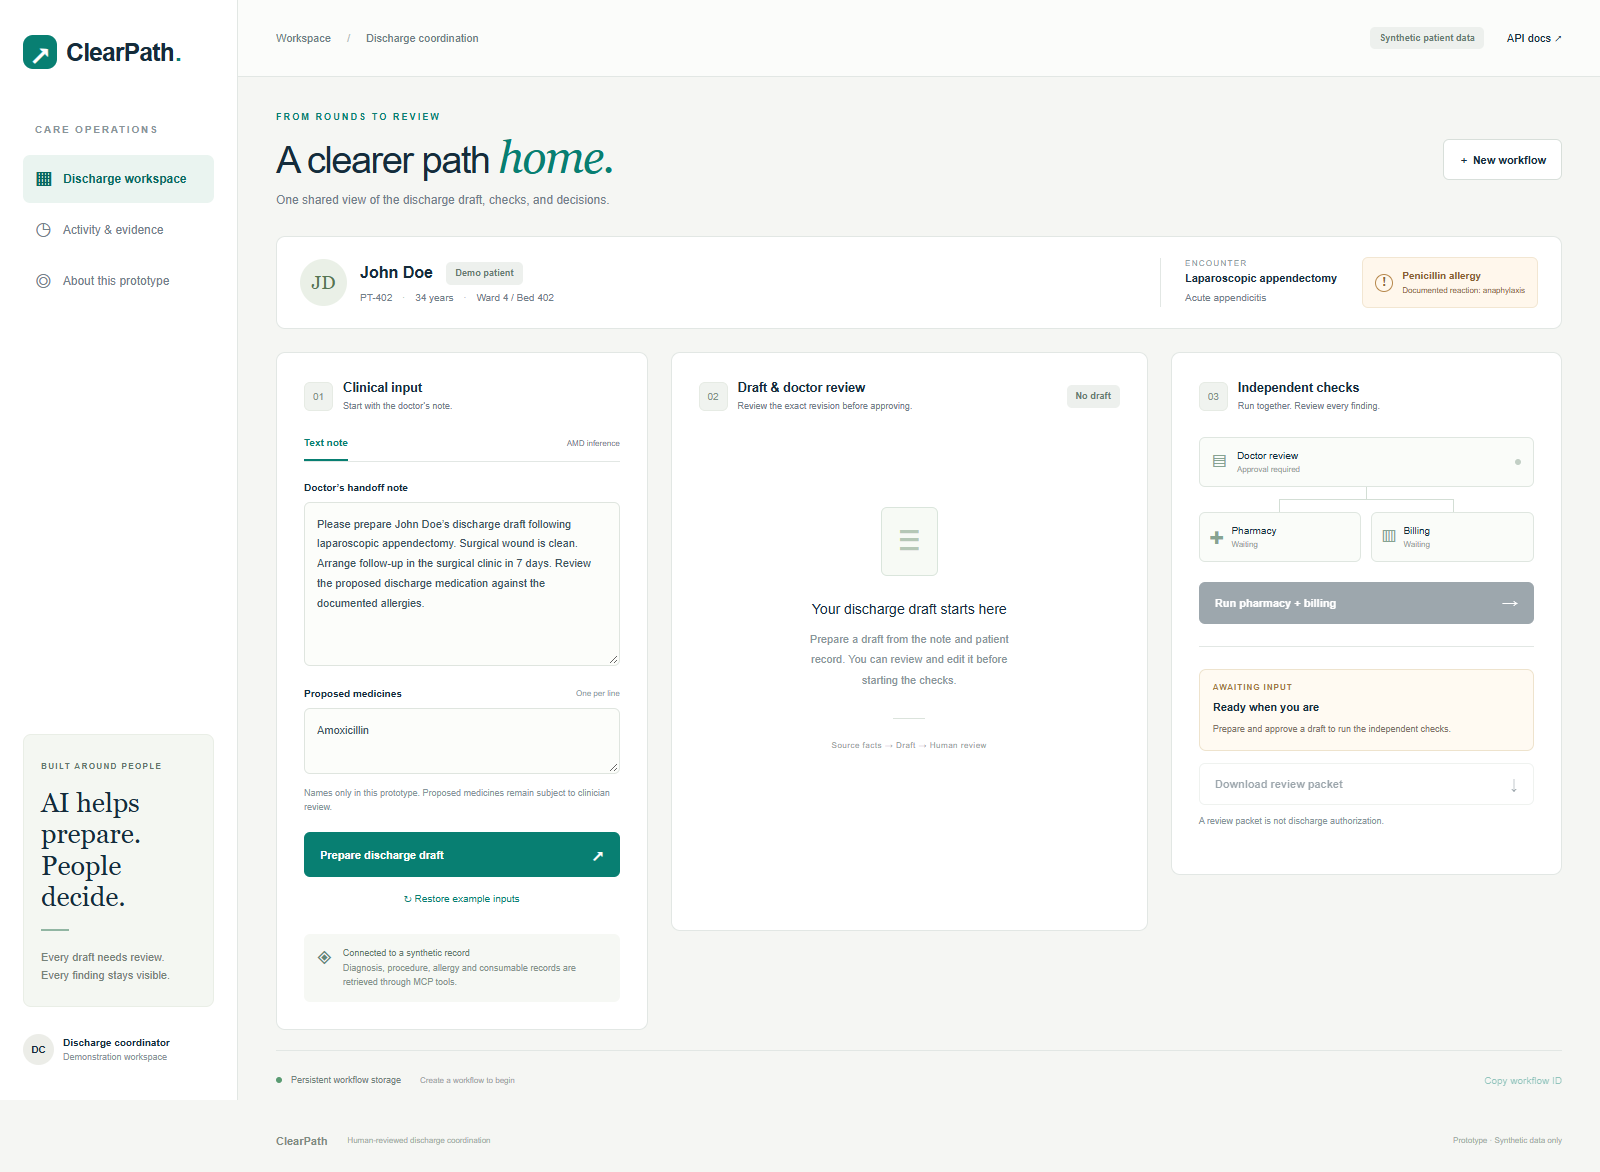
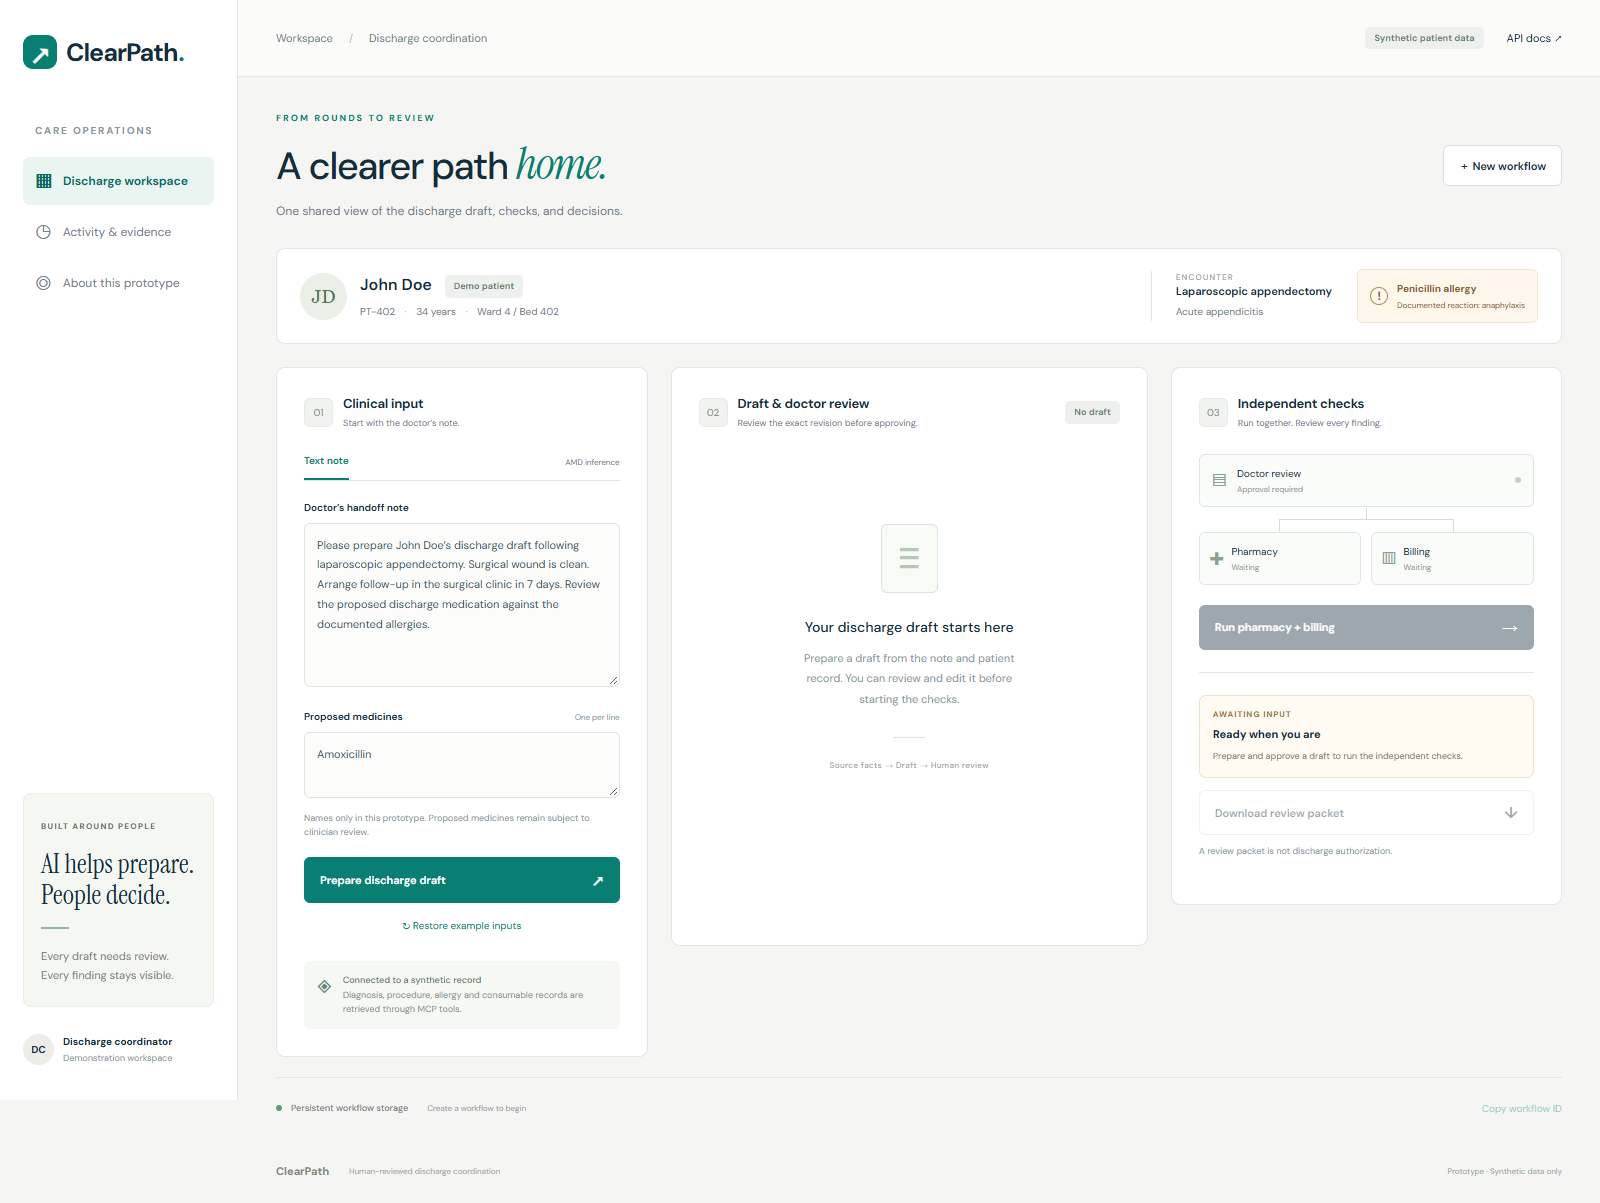
Document verified live deployment and final submission links

diff --git a/submission/SUBMISSION.md b/submission/SUBMISSION.md
@@ -1,5 +1,22 @@
 # ClearPath — Discharge Coordination
 
+## Final submission links
+
+| Form field | Value |
+| --- | --- |
+| Working prototype / live app | https://clearpath-discharge.onrender.com |
+| Application platform | Render |
+| Public source repository | https://github.com/Promizir/clearpath-discharge |
+| Demo video | https://github.com/Promizir/clearpath-discharge/releases/download/v0.1.0/ClearPath-demo-AMD.mp4 |
+| Pitch PDF | https://github.com/Promizir/clearpath-discharge/releases/download/v0.1.0/ClearPath-pitch.pdf |
+| Cover PNG | https://github.com/Promizir/clearpath-discharge/releases/download/v0.1.0/cover.png |
+| All downloadable assets | https://github.com/Promizir/clearpath-discharge/releases/tag/v0.1.0 |
+
+The hosted app passed the AMD-backed browser workflow and mobile checks.
+The video link downloads the MP4. If the submission form requires a particular
+video provider or a file upload, upload that MP4 there and use its resulting URL.
+Final form submission is still the submitter's action; no confirmation has been received.
+
 Copy-ready submission content for AMD Developer Hackathon: ACT III. The linked platform guide specifies a title up to 50 characters, summary up to 255 characters, and long description of at least 100 words. The content below fits those limits. [Official submission guide](https://lablab.ai/ai-articles/hackathon-guidelines)
 
 ## Project title
@@ -93,4 +110,4 @@ A browser sends validated requests to a FastAPI application. The application inv
 - `VERIFICATION.md`: completed checks and outstanding verification.
 - `build_assets.py`: reproducible local generator for the visual assets.
 
-The local AMD demo video and live API verification are complete. Video-link upload, platform challenge selection, external prototype/source links, and final platform submission remain outstanding. A local file is not an uploaded video link.
+The public app, source repository, uploaded video, pitch, cover, and verification are complete. Paste the links and copy below into the hackathon form, select the challenge, complete any team fields, and submit. Keep the platform's confirmation; publishing these assets does not submit the hackathon form.

diff --git a/submission/VERIFICATION.md b/submission/VERIFICATION.md
@@ -27,10 +27,17 @@ not evidence of AMD execution, clinical effectiveness, or production readiness.
   passed health, draft creation, approval, pharmacy, and billing checks. Its saved
   approved workflow and findings were restored after a container restart.
 - **Public source published:** https://github.com/Promizir/clearpath-discharge
+- **Public app verified:** https://clearpath-discharge.onrender.com. Public config
+  reports AMD / DeepSeek-V4-Flash configured. Chrome completed real AMD draft
+  generation, approval, both checks, review-packet download, reload restoration,
+  revision invalidation, and 390-pixel mobile layout without JavaScript errors.
+- **Release uploads verified:** MP4, PDF, PPTX, cover, source ZIP, and presentation
+  ZIP report uploaded. Anonymous HTTP checks returned 200 for the repository,
+  release page, and final video.
 
 Still pending:
 
-- Hosted app, video-link upload, and final submission.
+- Final hackathon form submission and its confirmation.
 
 Reproduce unit tests with `python -m unittest discover -s tests -v` and browser
 checks with `python scripts/qa_dashboard.py --url http://127.0.0.1:8000`.

diff --git a/README.md b/README.md
@@ -13,6 +13,13 @@ A shared discharge workspace for clinical drafts, human review, and concurrent
 pharmacy and billing checks. Built for AMD Developer Hackathon: ACT III,
 Track 2 — Health and Wellbeing.
 
+**[Try the live app](https://clearpath-discharge.onrender.com)** ·
+**[Watch/download the AMD demo](https://github.com/Promizir/clearpath-discharge/releases/download/v0.1.0/ClearPath-demo-AMD.mp4)** ·
+**[Submission assets](https://github.com/Promizir/clearpath-discharge/releases/tag/v0.1.0)**
+
+The public Render deployment passed the full AMD-backed browser workflow,
+report download, reload restoration, edit invalidation, and mobile checks.
+
 ![Running dashboard](submission/screenshots/02-review-findings.png)
 
 ## Working prototype
